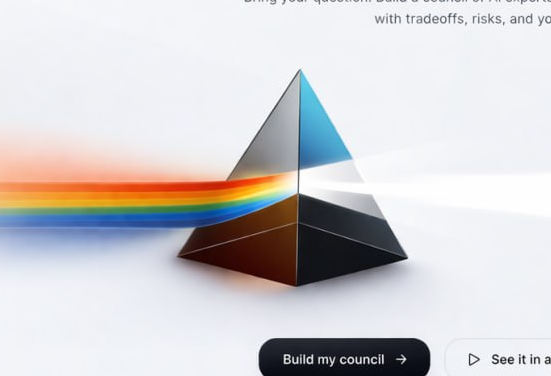
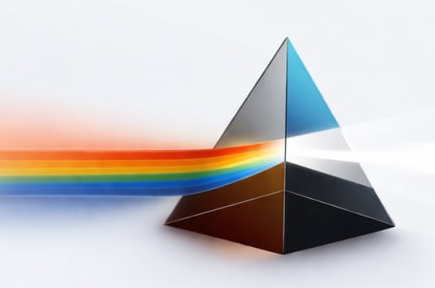
fix: clean prism crop — no UI artifacts

diff --git a/src/components/HeroPrism.tsx b/src/components/HeroPrism.tsx
@@ -7,8 +7,8 @@ export default function HeroPrism({ className = "" }: { className?: string }) {
       <Image
         src="/hero-prism.png"
         alt="Light refracting through a prism — multiple perspectives, one clear answer"
-        width={551}
-        height={376}
+        width={435}
+        height={288}
         className="w-full h-auto"
         priority
       />
